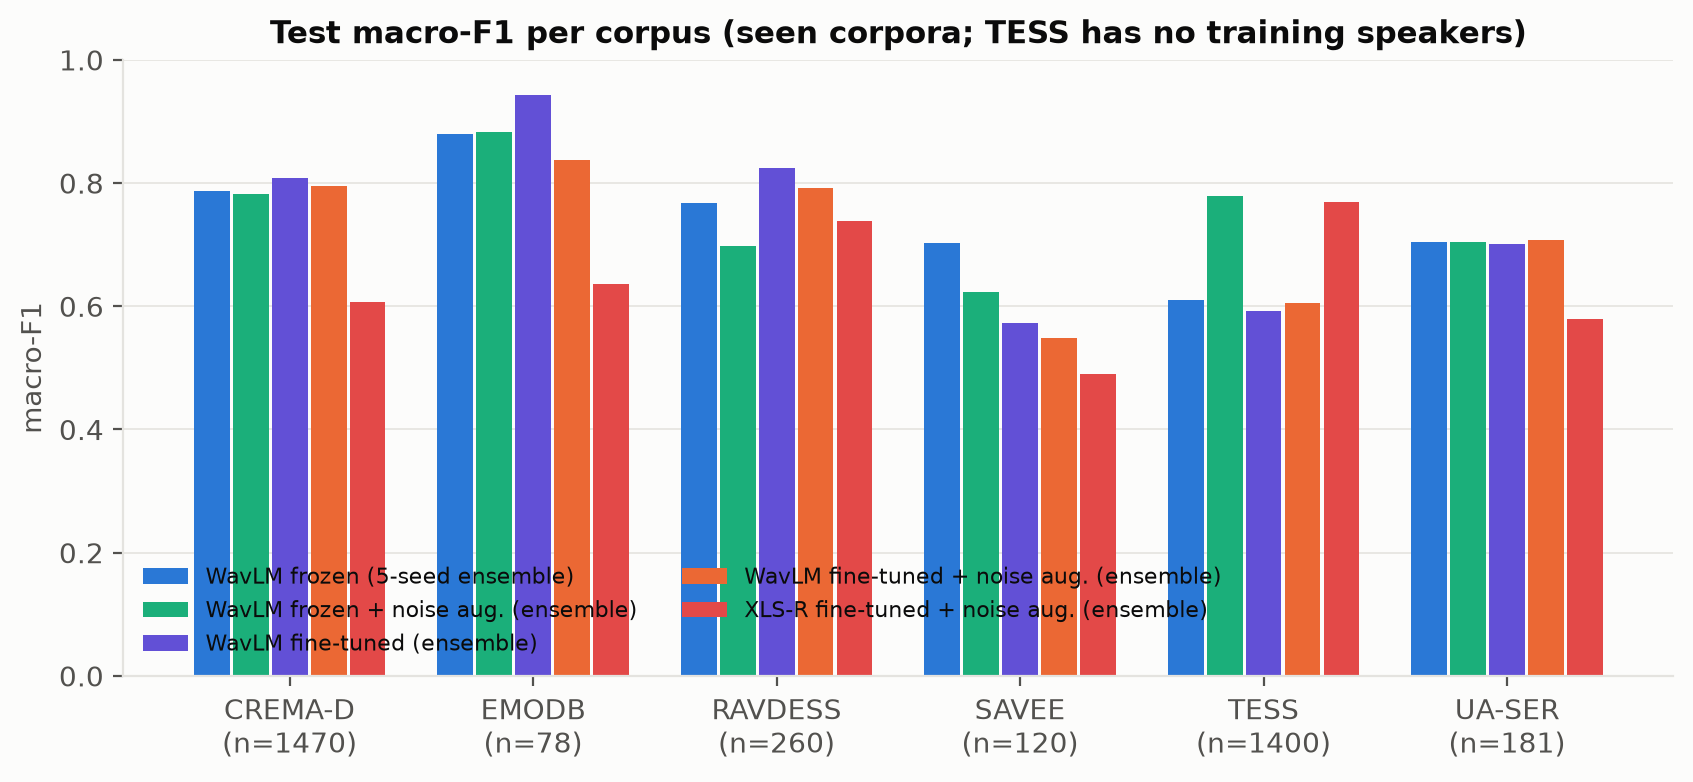
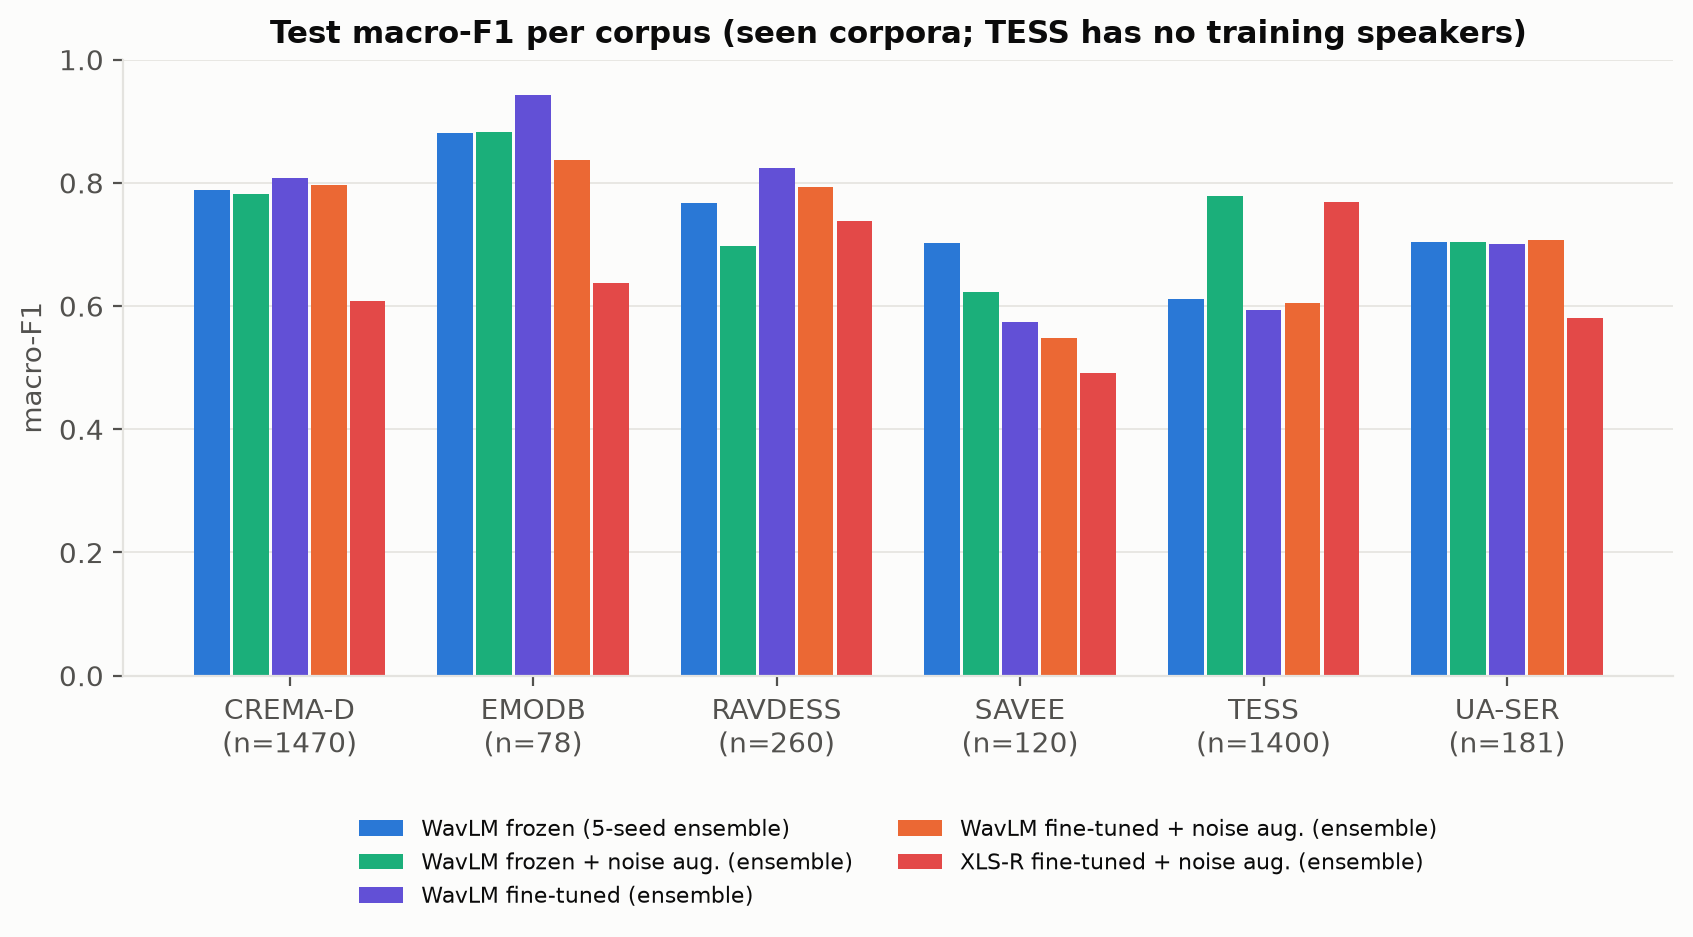
Clean up: keep thesis code, results and demo samples

diff --git a/make_figures.py b/make_figures.py
@@ -321,7 +321,7 @@ if sel:
         pred = P.argmax(1)
         ax.bar(np.arange(len(corp)) + k * w - 0.4 + w / 2, [mf1(y[ds == c], pred[ds == c]) for c in corp], w * 0.92, color=col, label=n)
     ax.set_xticks(range(len(corp)), [f"{c}\n(n={int((ds == c).sum())})" for c in corp]); ax.set_ylim(0, 1); ax.grid(axis="x", visible=False)
-    ax.set_ylabel("macro-F1"); ax.legend(ncol=2, loc="lower left", fontsize=8); ax.set_title("Test macro-F1 per corpus (seen corpora; TESS has no training speakers)")
+    ax.set_ylabel("macro-F1"); ax.legend(ncol=2, loc="upper center", bbox_to_anchor=(0.5, -0.2), frameon=False, fontsize=8); ax.set_title("Test macro-F1 per corpus (seen corpora; TESS has no training speakers)")
     save(fig, "10_per_corpus.png")
 
 # ================================================================== 11 dataset overview
